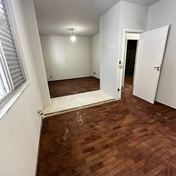
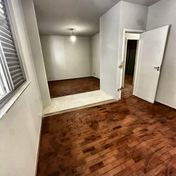
Apto Luxemburgo: foto real dos dois quartos com limpeza digital
Claude-Session: https://claude.ai/code/session_019DD4FyhMJskAwBvZ6C9jSq

diff --git a/luxemburgo/index.html b/luxemburgo/index.html
@@ -324,7 +324,7 @@ section.sec{padding:80px 0 0}
       <div class="btns" id="cBtns"><button class="pill" data-share><svg class="i"><use href="#i-share"/></svg>Enviar para alguém</button></div></div>
     <div><div class="sheet num"><div><span>Área privativa</span><b>120 m²</b></div><div><span>Quartos</span><b>3, sendo 1 suíte</b></div><div><span>Banheiros</span><b>3</b></div><div><span>Vagas</span><b>2 cobertas</b></div><div><span>Andar</span><b>1º</b></div><div><span>Valor</span><b>Sob consulta</b></div></div><div id="contactRows"></div></div>
   </div>
-  <p class="fine in" id="fine">As fotos da esquerda no antes e depois são reais; a mobília da direita foi gerada por inteligência artificial e é ilustrativa. Na foto tirada na compra, a reforma da direita também é ilustrativa; na foto do quarto com armário, o entulho e as marcas do piso foram removidos digitalmente. Fotos do book com decoração ilustrativa. Planta e maquete 3D ilustrativas. Informações sujeitas a confirmação documental e alteração sem aviso prévio.</p>
+  <p class="fine in" id="fine">As fotos da esquerda no antes e depois são reais; a mobília da direita foi gerada por inteligência artificial e é ilustrativa. Na foto dos dois quartos, tirada na compra, a reforma da direita também é ilustrativa. Nas fotos dos dois quartos e do quarto com armário, o entulho, os fios e as marcas do piso foram removidos digitalmente. Fotos do book com decoração ilustrativa. Planta e maquete 3D ilustrativas. Informações sujeitas a confirmação documental e alteração sem aviso prévio.</p>
   </div></section>
 </main>
 
@@ -368,7 +368,7 @@ addEventListener('resize',heroUpdate); heroUpdate();
 // ---------- antes e depois: um visor, dez ambientes ----------
 const BA=[ // [arquivo, nome, quando a foto real foi tirada]
   ['sala','Sala de estar','obra'],['estar','Estar e jantar','obra'],['janelas','Sala, junto às janelas','obra'],['corredor','Sala, vista para os quartos','obra'],
-  ['saleta','Dois quartos','compra'],['suite','Quarto de casal','obra'],['quarto','Quarto com escrivaninha','obra'],['quarto3','Quarto 3','obra'],
+  ['saleta','Dois quartos','compralimpa'],['suite','Quarto de casal','obra'],['quarto','Quarto com escrivaninha','obra'],['quarto3','Quarto 3','obra'],
   ['armario','Quarto com armário','limpa'],['banheiro','Banheiro','obra']];
 const cmp=$('cmp'); let p=50, drag=null, cur=-1;
 const set=(v,anim)=>{ p=Math.max(0,Math.min(100,v)); cmp.classList.toggle('anim',!!anim); cmp.style.setProperty('--p',p+'%'); cmp.setAttribute('aria-valuenow',Math.round(p)); };
@@ -377,11 +377,11 @@ $('thumbs').innerHTML=BA.map(([k,n],i)=>`<button role="tab" data-i="${i}" aria-l
 const tbs=[...$('thumbs').children];
 function show(i,anim){ i=(i+BA.length)%BA.length; if (i===cur) return; cur=i; const [k,n,w]=BA[i];
   const go=()=>{ $('baA').src='img/antes-'+k+'.jpg'; $('baD').src='img/depois-'+k+'.jpg';
-    $('baA').alt=n+', foto real '+(w==='compra'?'tirada na compra':w==='limpa'?'com entulho removido digitalmente':'sem móveis'); $('baD').alt=n+', '+(w==='compra'?'reforma e mobília ilustrativas':'mobília ilustrativa')+' feitas por IA';
+    $('baA').alt=n+', foto real '+(w==='compralimpa'?'da compra, com limpeza digital':w==='compra'?'tirada na compra':w==='limpa'?'com entulho removido digitalmente':'sem móveis'); $('baD').alt=n+', '+(w==='compra'||w==='compralimpa'?'reforma e mobília ilustrativas':'mobília ilustrativa')+' feitas por IA';
     cmp.setAttribute('aria-label',n+': comparar antes e depois'); cmp.classList.remove('swap'); if (anim!==false) sweep(); else set(50,false); };
   if (anim===false) go(); else { cmp.classList.add('swap'); setTimeout(go,180); }
   $('baName').textContent=n; $('baIdx').textContent=String(i+1).padStart(2,'0')+' / '+BA.length;
-  $('baNote').textContent= w==='compra' ? 'Foto real tirada na compra · reforma e móveis por IA' : w==='limpa' ? 'Foto real com limpeza digital · móveis por IA' : 'Foto real depois da obra · móveis por IA';
+  $('baNote').textContent= w==='compralimpa' ? 'Foto real da compra com limpeza digital · reforma e móveis por IA' : w==='compra' ? 'Foto real tirada na compra · reforma e móveis por IA' : w==='limpa' ? 'Foto real com limpeza digital · móveis por IA' : 'Foto real depois da obra · móveis por IA';
   tbs.forEach((b,j)=>{ b.classList.toggle('on',j===i); b.setAttribute('aria-selected',j===i); });
   tbs[i].scrollIntoView({block:'nearest',inline:'center',behavior:reduce?'auto':'smooth'});
   const nx=BA[(i+1)%BA.length][0]; new Image().src='img/antes-'+nx+'.jpg'; new Image().src='img/depois-'+nx+'.jpg'; }
